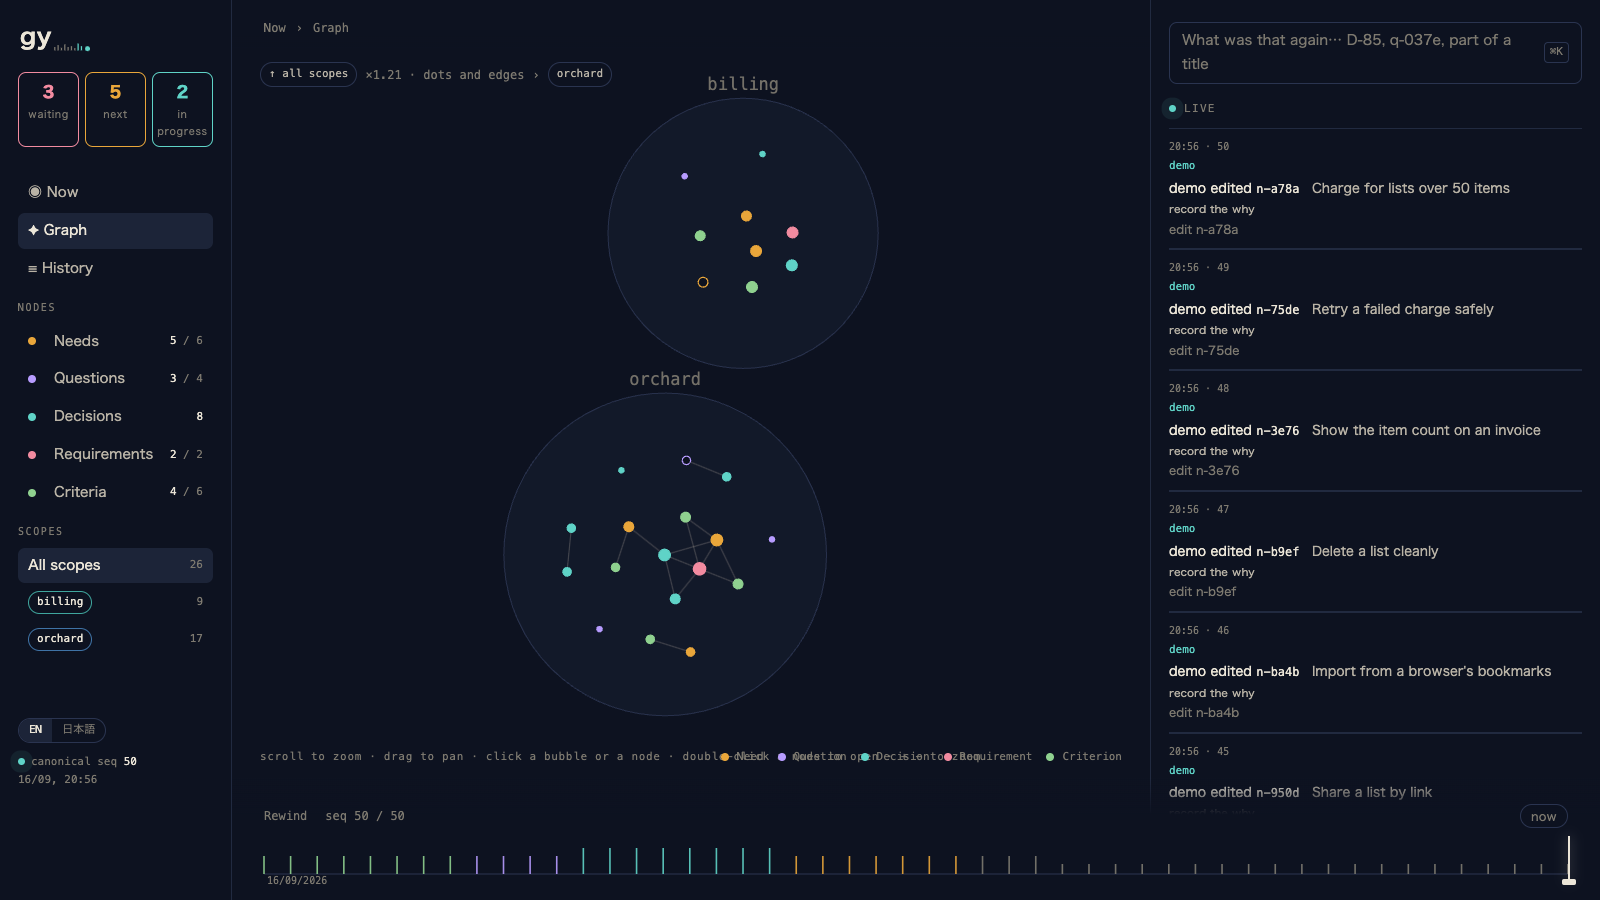
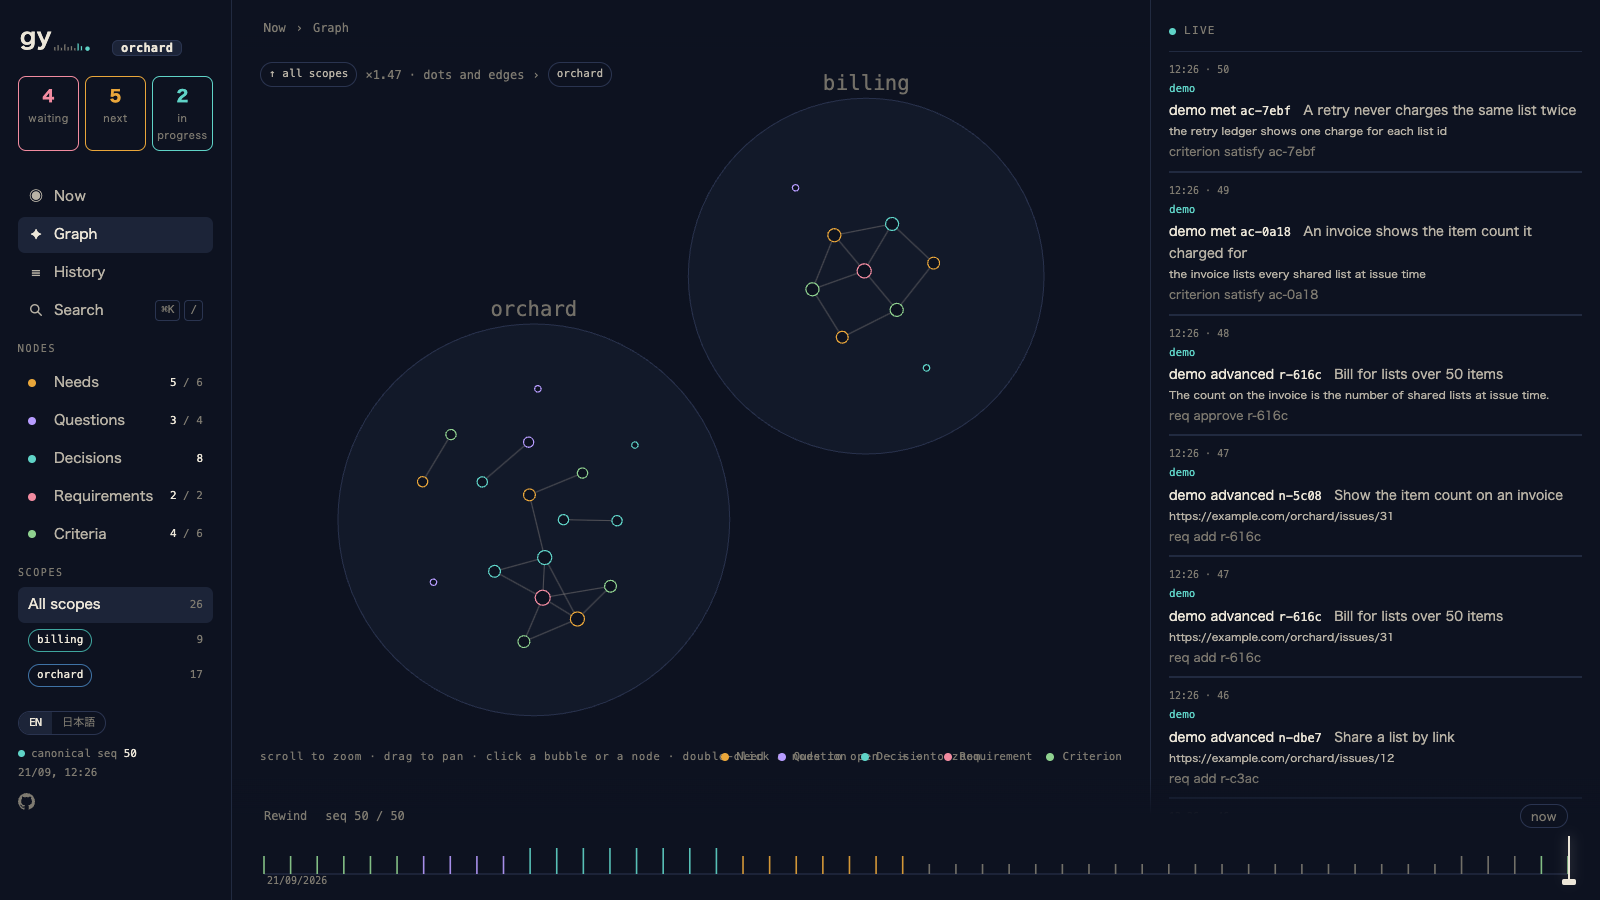
docs: the README shots carry the ledger badge, and the demo ledger runs again (n-58c9, r-5f06, r-6a83, ac-aaf6, ac-46a8, ac-e97d, ac-46fa)

diff --git a/README.ja.md b/README.ja.md
@@ -6,7 +6,7 @@
 
 gy は、要求が確定するまでの状態を記録します。ある仕事が何に基づいているかを、ニーズ・論点・決定・要求・受け入れ条件のノードと辺のグラフとして持ちます。使い方は一つで、設定するものはほとんどありません。エージェントが作業しながら書き、`publish` が記録をファイルに書き出し、それをコミットして後から読み返します。canonical はリポジトリの外に置き、gy はネットワークへ出ません。
 
-スクショは gy 自身の記録です。英語の見本の記録は `scripts/demo-ledger.sh` で作れます。
+スクショは `scripts/demo-ledger.sh` が作る見本の台帳です。実行して `gy serve` すると同じものを試せます。
 
 いま
 
